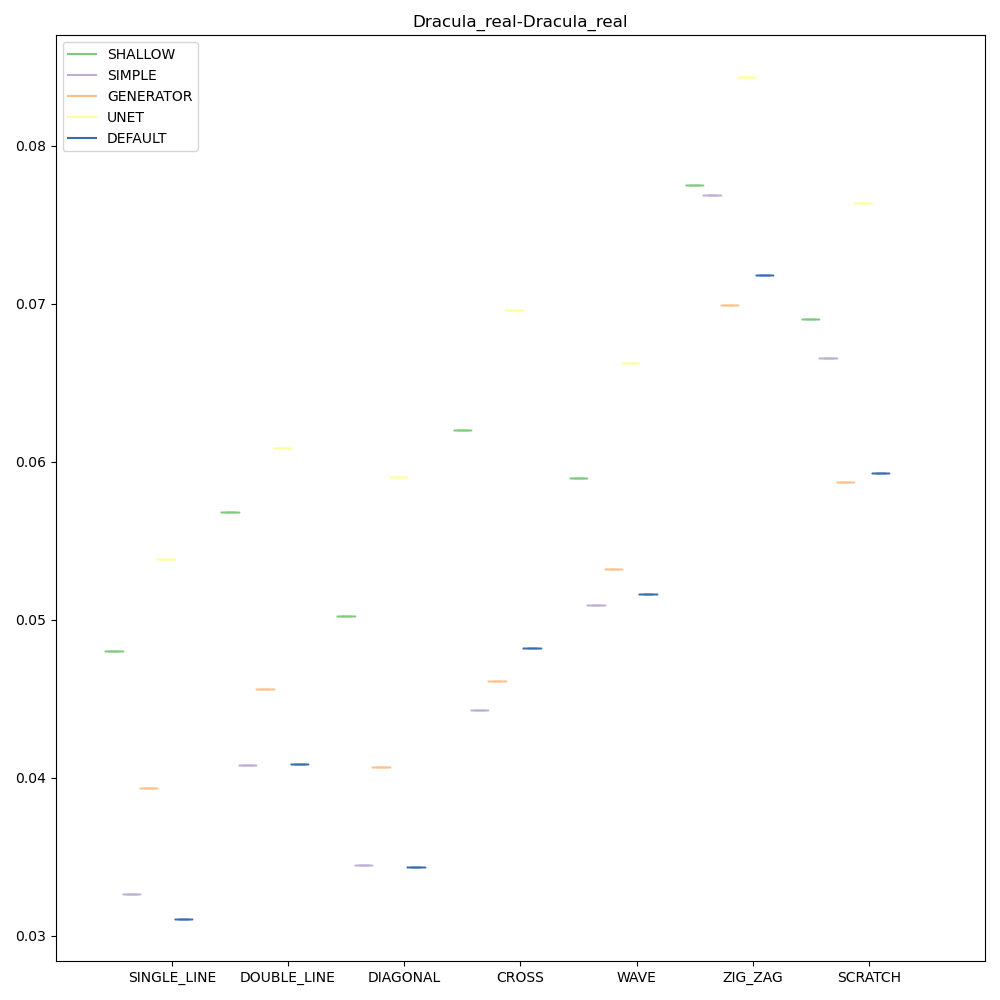
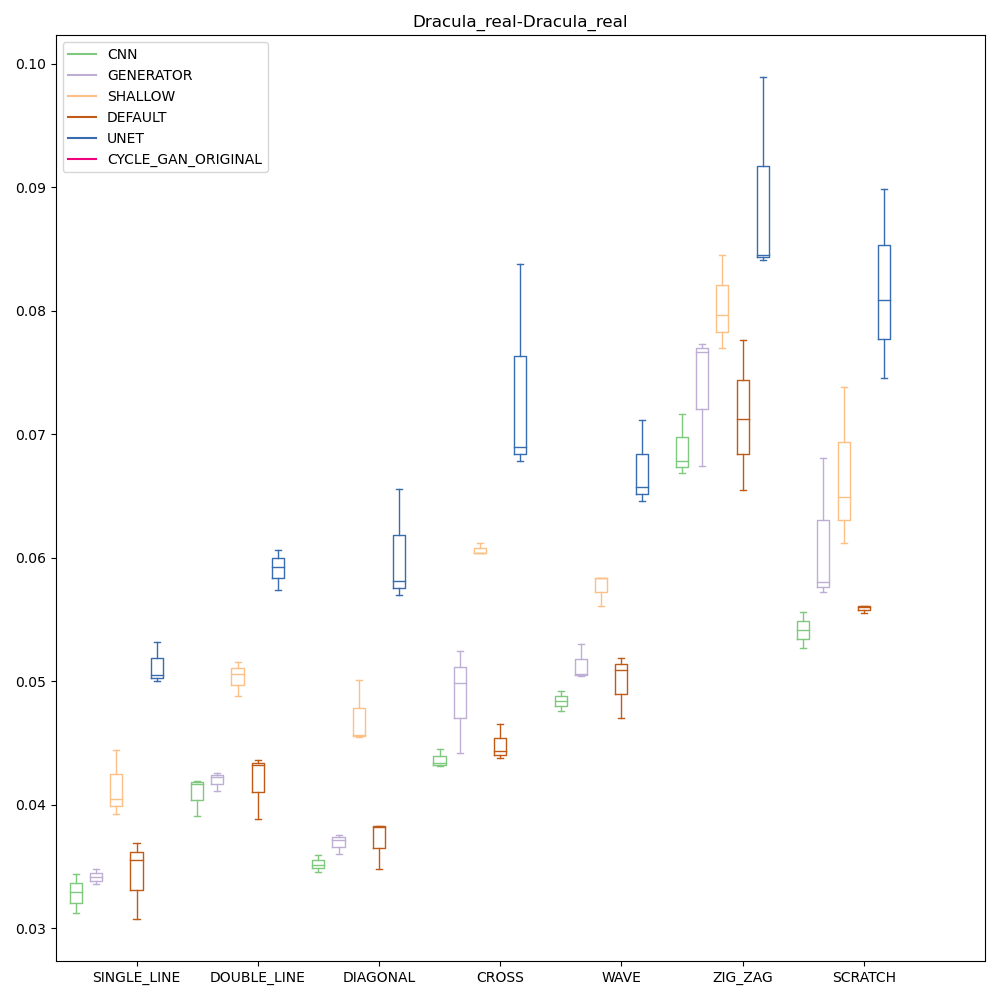
fix configuration load bugs, improve boxplot, readd testing of Original

diff --git a/src/visualize.py b/src/visualize.py
@@ -19,49 +19,50 @@ def visualize_plot(result_path):
     F1_dict = {}
     models = list()
     for ind_result, result_ind_value in result_data.items():
-        if "ORIGINAL" in ind_result or "ATTR_GUIDED" in ind_result:
-            continue
+        if "ORIGINAL" in ind_result:
+            split = ind_result.split("_")
+            model = "CYCLE_GAN_ORIGINAL"
         else:
             split = ind_result.split("_")
             model = split[1]
-            if model not in models:
-                index = len(models)
-                models.append(model)
-            else:
-                index = models.index(model)
-            train_dataset = '_'.join(split[len(split) - 2:])
+        if model not in models:
+            index = len(models)
+            models.append(model)
+        else:
+            index = models.index(model)
+        train_dataset = '_'.join(split[len(split) - 2:])
 
-            for dataset_name, result_dataset in result_ind_value.items():
-                test_dataset = dataset_name
-                joined = '-'.join([train_dataset, test_dataset])
+        for dataset_name, result_dataset in result_ind_value.items():
+            test_dataset = dataset_name
+            joined = '-'.join([train_dataset, test_dataset])
 
-                if joined not in RMSE_dict:
-                    RMSE_dict[joined] = [[[] for j in range(7)] for i in range(5)]
-                    # For each stroketype there is an array holding the results for all models
+            if joined not in RMSE_dict:
+                RMSE_dict[joined] = [[[] for j in range(7)] for i in range(6)]
+                # For each stroketype there is an array holding the results for all models
 
-                    F1_dict[joined] = {k.name: [[] for i in range(7)] for k in StrikeThroughType}
+                F1_dict[joined] = {k.name: [[] for i in range(7)] for k in StrikeThroughType}
 
-                for strokeType, strokeRes in result_dataset["RMSE"].items():
-                    if strokeType != "all":
-                        ind = StrikeThroughType.value_for_name(strokeType)
-                        RMSE_dict[joined][index][ind].append(strokeRes)
+            for strokeType, strokeRes in result_dataset["RMSE"].items():
+                if strokeType != "all":
+                    ind = StrikeThroughType.value_for_name(strokeType)
+                    RMSE_dict[joined][index][ind].append(strokeRes)
                 # for strokeType, strokeRes in result_dataset["F1"].items():
                 #     F1_dict[joined][strokeType][index].append(strokeRes)
     ticks = [stroke.name for stroke in StrikeThroughType]
-    colors = ["#7fc97f", "#beaed4", "#fdc086", "#ffff99", "#386cb0", "#f0027f", "#bf5b17"]
-    locs = np.arange(-1, 1, 2/len(models)-0.1)
+    colors = ["#7fc97f", "#beaed4", "#fdc086", "#bf5b17", "#386cb0", "#f0027f", "#ffff99"]
+    locs = np.arange(-1.5, 1.6, 3/len(models))
     # Creat a plot for each training, test dataset combination
     for ttkey, train_test_data_comb in RMSE_dict.items():
         plt.figure(figsize=(10, 10))
         # Number of rows
         # Each row of train_test_dataCOMB are the results of scores for each stroketype
         for i, model_data in enumerate(train_test_data_comb):
-            tmp = plt.boxplot(model_data, positions=np.array(range(len(model_data))) * 2 + locs[i], sym='', widths=0.3)
+            tmp = plt.boxplot(model_data, positions=np.array(range(len(model_data))) * 3 + locs[i], sym='', widths=0.3)
             set_box_color(tmp, colors[i])
             plt.plot([], c=colors[i], label=models[i])
         plt.legend(loc='upper left')
-        plt.xticks(range(0, len(ticks) * 2, 2), ticks)
-        plt.xlim(-2, len(ticks) * 2)
+        plt.xticks(range(0, len(ticks) * 3, 3), ticks)
+        plt.xlim(-2, len(ticks) * 3)
         plt.title(ttkey)
         plt.tight_layout()
         plt.savefig("figures/" + ttkey)

diff --git a/src/configuration.py b/src/configuration.py
@@ -115,11 +115,16 @@ class Configuration:
     Holds the configuration for the current experiment.
     """
 
-    def __init__(self, parsedConfig: SectionProxy, test: bool = False, fileSection: str = "DEFAULT", train_dataset: str = "IAMsynth_full", test_dataset: str = "IAMsynth_full"):
+    def __init__(self, parsedConfig: SectionProxy, test: bool = False, fileSection: str = "DEFAULT", train_dataset = None, test_dataset = None):
         self.parsedConfig = parsedConfig
         self.fileSection = FileSection.getByName(fileSection).name
-        self.train_dataset_choice = train_dataset
-        self.test_dataset_choice = test_dataset
+        if train_dataset is not None:
+            self.train_dataset_choice = self.SetStr('dataset_choice_train', train_dataset)
+            self.test_dataset_choice = self.SetStr('dataset_choice_test', test_dataset)
+        else:
+            self.train_dataset_choice = self.getSetStr('dataset_choice_train', "IAMsynth_full")
+            self.test_dataset_choice = self.getSetStr('dataset_choice_test', "IAMsynth_full")
+
         if not test:
             self.outDir = Path(self.parsedConfig.get('out_dir')) / '{}_{}_{}_{}_{}'.format(
                 self.getSetStr("model", "DENSE"),
@@ -177,8 +182,8 @@ class Configuration:
         self.up = self.parseTiramisuConfig(self.getSetStr("up", "4"))
 
         f = parsedConfig.get("fold")
-        if f == "all" and self.train_dataset_choice == DatasetChoice.Dracula_synth.name:
-            self.fold = f
+        if f == "all" and self.train_dataset_choice == DatasetChoice.Dracula_synth.name or self.train_dataset_choice == DatasetChoice.Dracula_synth.name:
+            self.fold = "all"
             self.parsedConfig["fold"] = "all"
         else:
             self.fold = self.getSetInt("fold", -1)
@@ -211,6 +216,10 @@ class Configuration:
         value = self.parsedConfig.get(key, default)
         self.parsedConfig[key] = str(value)
         return value
+
+    def SetStr(self, key: str, default: str = None):
+        self.parsedConfig[key] = str(default)
+        return default
 
     @staticmethod
     def parseBetas(betaString: str) -> Tuple[float, float]:

diff --git a/src/test.py b/src/test.py
@@ -110,6 +110,9 @@ class TestRunner:
 
 def evaluate_one_file(file, data, save, checkpoint, GAN=False):
     configPath = Path(file)
+    name_config = configPath.parent.name
+    split = name_config.split("_")
+    train_dataset = '_'.join(split[len(split) - 2:])
     if data is not None:
         dataPath = Path(data)
     saveCleanedImages = save
@@ -120,18 +123,17 @@ def evaluate_one_file(file, data, save, checkpoint, GAN=False):
 
     section = "DEFAULT"
     sections = configParser.sections()
-    if len(sections) == 1:
-        section = sections[0]
+    if len(sections) >= 1:
+        section = sections[-1]
     else:
         logging.getLogger("st_recognition").warning("Found %s than one named sections in config file. Using 'DEFAULT' "
                                                     "as fallback.", 'more' if len(sections) > 1 else 'fewer')
-    print(file)
     parsedConfig = configParser[section]
     if not GAN:
-        conf = Configuration(parsedConfig, test=True, fileSection=section)
+        conf = Configuration(parsedConfig, test=True, fileSection=section, train_dataset=train_dataset, test_dataset="IAMsynth_full")
         dataset_dir = conf.dataset_dir
     else:
-        conf = ConfigurationGAN(parsedConfig, test=True, fileSection=section)
+        conf = ConfigurationGAN(parsedConfig, test=True, fileSection=section, train_dataset=train_dataset, test_dataset="IAMsynth_full")
         dataset_dir = "datasets"
 
     if data is not None:

diff --git a/src/train.py b/src/train.py
@@ -173,7 +173,7 @@ def train_all_models():
             else:
                 conf = getDynamicConfigurationGAN(section, None, train_dataset=train_dataset_choice,
                                                 test_dataset=valid_dataset_choice)
-                runner = TrainRunnerGAN(conf)
+                runner = TrainRunnerGAN(conf, True)
                 runner.train()
     return min_time
 
@@ -190,8 +190,8 @@ def train_and_evaluate_all_models(folder):
     -------
 
     """
-    min_time = train_all_models()
-    evaluate_folder(Path(folder), None, False, False, min_time)
+    # min_time = train_all_models()
+    evaluate_folder(Path(folder), None, False, False, 0)
 
 
 # Note: To run using IDE, make sure working directory is root folder!

diff --git a/src/cycle_gan/configuration_gan.py b/src/cycle_gan/configuration_gan.py
@@ -167,7 +167,7 @@ class ConfigurationGAN:
         self.modelSaveEpoch = parsedConfig.getint('modelsaveepoch', 10)
         self.validationEpoch = parsedConfig.getint('validation', 10)
 
-        self.dataset_dir = parsedConfig.get('dataset_dir')
+        self.dataset_dir = parsedConfig.get('dataset_dir', 'datasets')
         full_dataset_path = self.dataset_dir + "/"
         self.trainImageDir = Path(
             full_dataset_path + self.train_dataset_choice)
